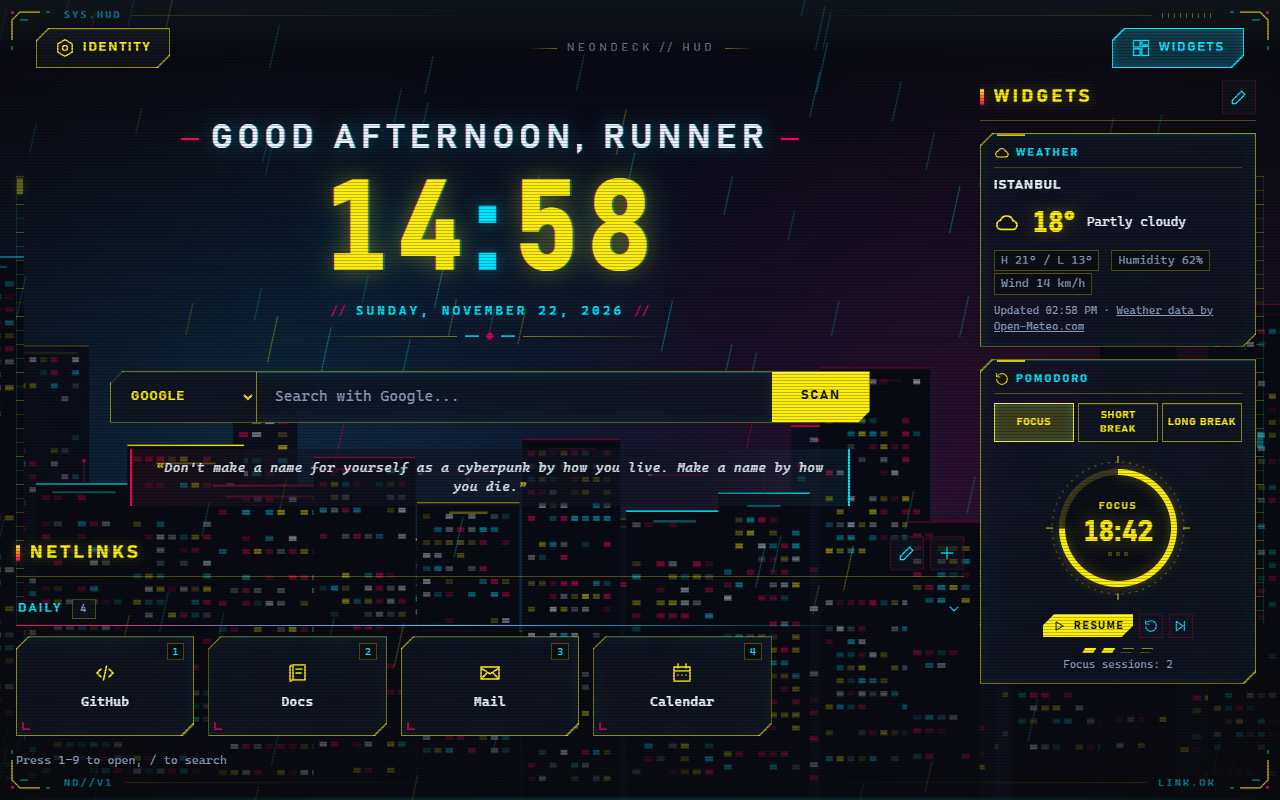
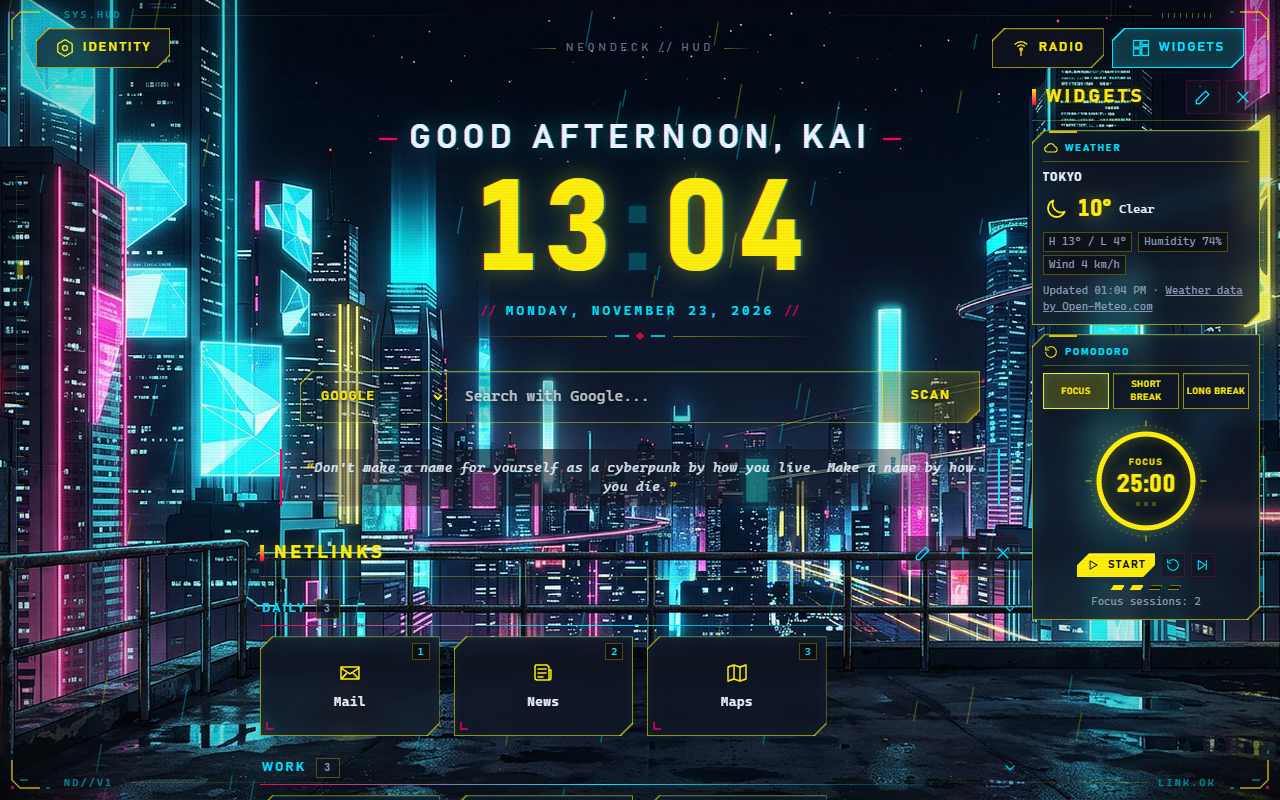
NEONDECK gallery: new 1.0.0 screenshots

diff --git a/neondeck/index.html b/neondeck/index.html
@@ -43,7 +43,7 @@
 
 <section class="section"><div class="wrap">
 <h2>Screenshots</h2>
-<div class="shots"><a class="shot cut" href="/assets/neondeck/01-edgerunners.png"><img src="/assets/neondeck/01-edgerunners.png" alt="Edgerunners theme: neon rain city, weather and Pomodoro" width="1280" height="800" loading="lazy"></a><a class="shot cut" href="/assets/neondeck/02-arasaka.png"><img src="/assets/neondeck/02-arasaka.png" alt="Arasaka theme: red radar HUD" width="1280" height="800" loading="lazy"></a><a class="shot cut" href="/assets/neondeck/03-ghost.png"><img src="/assets/neondeck/03-ghost.png" alt="Ghost theme: signal rain" width="1280" height="800" loading="lazy"></a><a class="shot cut" href="/assets/neondeck/04-orchid.png"><img src="/assets/neondeck/04-orchid.png" alt="Acid Orchid theme: synth horizon and neon grid" width="1280" height="800" loading="lazy"></a><a class="shot cut" href="/assets/neondeck/05-widgets.png"><img src="/assets/neondeck/05-widgets.png" alt="Widget panel: tasks, habits, ambient sound, AI links" width="1280" height="800" loading="lazy"></a></div>
+<div class="shots"><a class="shot cut" href="/assets/neondeck/01-edgerunners.png?v=2"><img src="/assets/neondeck/01-edgerunners.png?v=2" alt="Edgerunners theme: neon rooftop wallpaper, weather and Pomodoro" width="1280" height="800" loading="lazy"></a><a class="shot cut" href="/assets/neondeck/02-arasaka.png?v=2"><img src="/assets/neondeck/02-arasaka.png?v=2" alt="Arasaka theme: red radar HUD, world clock, tasks and habits" width="1280" height="800" loading="lazy"></a><a class="shot cut" href="/assets/neondeck/03-samurai.png?v=2"><img src="/assets/neondeck/03-samurai.png?v=2" alt="Samurai theme with theme music in the ambient sound widget" width="1280" height="800" loading="lazy"></a><a class="shot cut" href="/assets/neondeck/04-ghost.png?v=2"><img src="/assets/neondeck/04-ghost.png?v=2" alt="Ghost theme: cyberspace, scratchpad and Pomodoro" width="1280" height="800" loading="lazy"></a><a class="shot cut" href="/assets/neondeck/05-orchid.png?v=2"><img src="/assets/neondeck/05-orchid.png?v=2" alt="Acid Orchid theme: synth horizon, weather and world clock" width="1280" height="800" loading="lazy"></a><a class="shot cut" href="/assets/neondeck/06-settings.png?v=2"><img src="/assets/neondeck/06-settings.png?v=2" alt="Settings: five themes and live wallpapers" width="1280" height="800" loading="lazy"></a><a class="shot cut" href="/assets/neondeck/07-widgets.png?v=2"><img src="/assets/neondeck/07-widgets.png?v=2" alt="Widget manager: drag and drop, tasks and habits" width="1280" height="800" loading="lazy"></a></div>
 </div></section>
 
 <section class="section"><div class="wrap">
